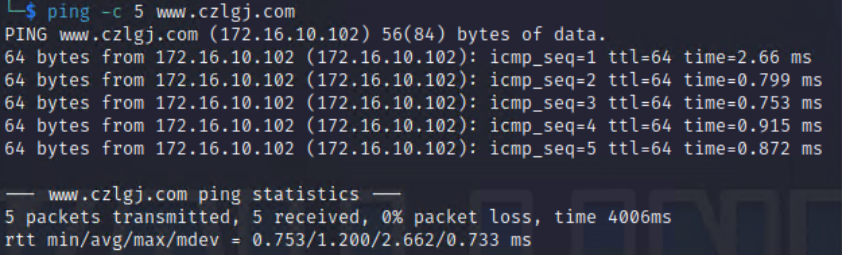
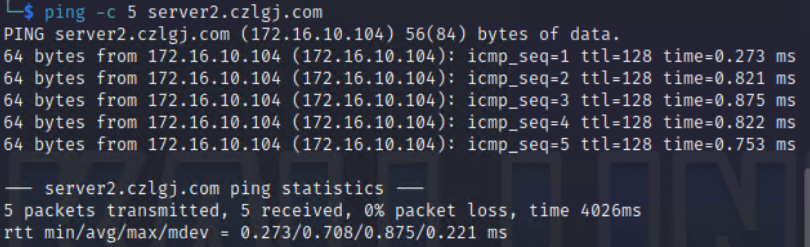
update

diff --git a/渗透攻击课程/Lesson3/2.主机发现与端口扫描/1.扫描活跃主机.md b/渗透攻击课程/Lesson3/2.主机发现与端口扫描/1.扫描活跃主机.md
@@ -2,15 +2,29 @@
   - 发现主机用来探测哪些主机是活动的，进而获取主机的信息。用户可以使用主动扫描的方式发现主机，也可以采用被动监听的方式发现主机跃是网络管理员最常做的一件事，不过作为网络管理员，一般只需要使用 ICMP Ping 进行探测就能够满足需求，但是作为一名渗透测试者，对你的要求就会更高一些。通常网络上会有很多已关闭电源的主机或空闲（没有主机使用）的1段，需要首先从大范围的 IP 地址段中寻找出活跃的主机，然后进一步筛选出你感兴趣的目标主机。
   - 除了使用 Ping 命令，也可以使用 Metasploit 中的主机发现辅助模块，或是老牌的网络探测分析软件 Nmap，下面逐一进行介绍。
 
-- 1.ICMP PING命令
-  - Ping (Packet Internet Grope， 因特网包探素器）是一个用于测试网络连接的程序，由于它在网络管理维护工作中使用频率非常高，几乎所有操作系统都集成了这个程序。Ping 程序会发送一个ICMP echo 请求消息给目的主机，并报告应答情况，如果 Ping 后面跟的是域名，那么它首先会尝试将域名解析，然后向解析得到的 IP 地址发送数据包。本实验环境中，我们可以通过nslookup指令在Kali攻击上获取 www.czlgj.com 的 IP 地址为 172.16.10.102，我们可以使用ping命令来测试主机连通性。
+##### ICMP PING命令
+  - Ping (Packet Internet Grope， 因特网包探素器）是一个用于测试网络连接的程序，由于它在网络管理维护工作中使用频率非常高，几乎所有操作系统都集成了这个程序。Ping 程序会发送一个ICMP echo 请求消息给目的主机，并报告应答情况，如果 Ping 后面跟的是域名，那么它首先会尝试将域名解析，然后向解析得到的 IP 地址发送数据包。本实验环境中，我们可以通过nslookup指令在Kali攻击上获取 server2.czlgj.com 的 IP 地址为 172.16.10.104，我们可以使用ping命令来测试主机连通性。
 
   ![pic1](../pics/555.png)
 
+##### Metasploit 的主机发现模块
+- Metasploit 中提供了一些辅助模块可用于活跃主机的发现，这些模块位于 Metasploit 源码路径的 modules/auxiliary/scanner/discovery/ 目录中，主要有以下几个：arp sweep、ipv6 multicast_ping, ipv6_neighbor, ipv6_neighbor_router_advertisement, udp_probe. udp_sweep。其中两个常用模块的主要功能为：
+  - arp_sweep 使用 ARP 请求枚举本地局城网络中的所有活跃主机。
+  - udp_sweep 通过发送 UDP 数据包探查指定主机是否活跃，并发现主机上的 UDP 服务。
+- 在TCP/IP 网络环境中，一台主机在发送数据帧前需要使用 ARP (Address Resolution Protocol，地址解析协议）将目标IP地址转换成 MAC 地址，这个转换过程是通过发送一个 ARP 请求来完成的。如 IP 为A 的主机发送一个 ARP 请求获取 IP 为 B 的MAC 地址，此时如果 IP 为 B 的主机存在，那么它会向 A 发出一个回应。因此，可以通过发送 ARP 请求的方式很容易地获取同一子网上的活跃主机情况，这种技术也称为 ARP扫描。Metasploit 的 arp_sweep模块便是一个 ARP 扫描器，下面演示了使用方法。
+- Metasploit中的arp_sweep模块使用方法
 
+ ![pic1](../pics/666.png)
 
+- 首先需要输人 RHOSTS 来对扫描目标进行设置。在Metasploit 中，大部分 RHOSTS 参数均可设置为一个或多个IP 地址，多个 IP 地址可使用连字符号（-）表示（如172.16.10.1-172.16.10.100），或使用无类型域间选路地址块(CIDR） 表示（如172.16.10.0/24)。此外值得提醒的是，在所有的扫描类操作中，均可以通过将THREAD 参数设置成一个较大的值来增加扫描线程以提高扫描速度，或者设置为较小的值让扫描过程更加隐秘。
+- 设置好 RHOSTS 和 THREADS 参数后，输人run 命令启动扫描器.
 
+ ![pic1](../pics/777.png)
 
+- 从代码中可以看到，arp_sweep模块很快发现了 172.16.10.0/24网段上的活跃主机，分别为172.16.10.1、172.16.10.2、 172.16.10.231、172.16.10.102、172.16.10.104、172.16.10.254。arp_ sweep 模块只能探测同一子网中的活跃主机，对于远程网络，可以使用更为强大的 Nmap 扫描器进行探测。
+
+##### 使用 Nmap 进行主机探测
+- Nmap (Network mapper）是目前最流行的网络扫描工具，它不仅能够准确地探测单台主机的详细情况，而且能够高效率地对大范围的 IP 地址段进行扫描。使用 Nmap 能够得知目标网络上有哪些主机是存活的，哪些服务是开放的，甚至知道网络中使用了何种类型的防火墙设备等。Nmap 版本支持包括 Windows 在内的多种操作系统，在 Kali 也集成了 Nmap，可以直接在 MSF 终端中运行。
 
 
 
